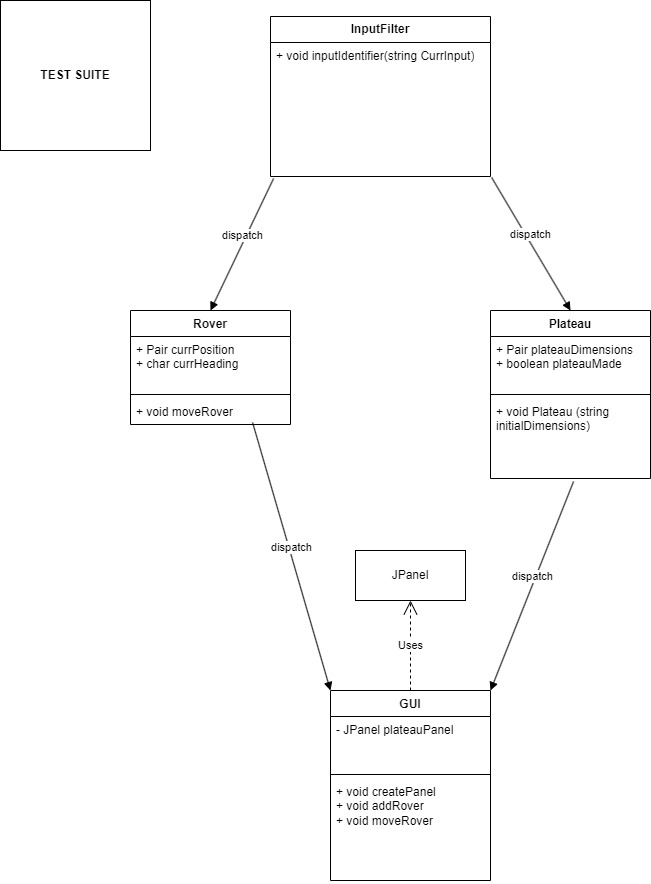
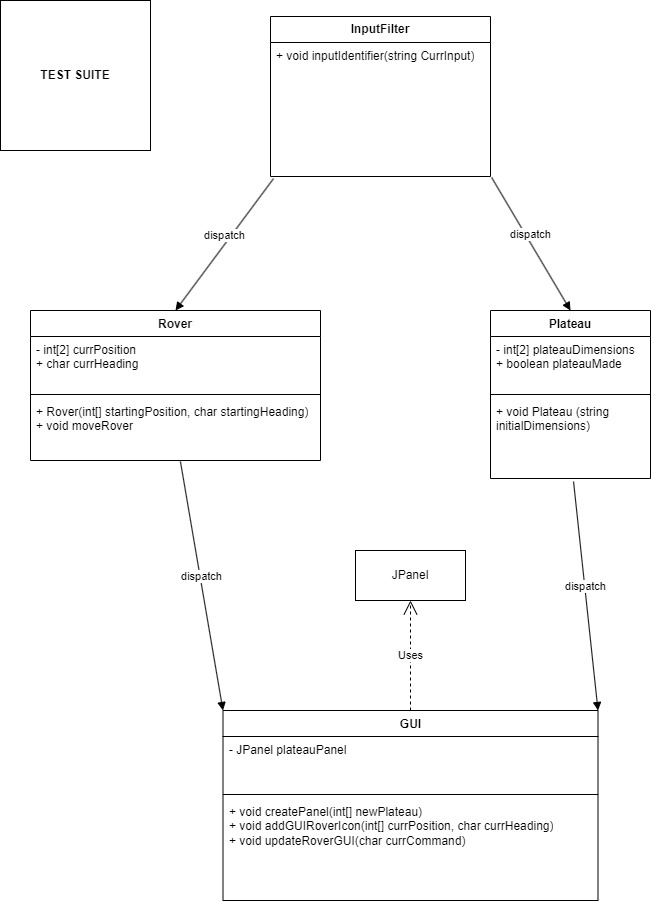
Refactored UML diagram to include new methods and method parameters. Began to flesh out classes with variables and methods including comments

diff --git a/logic/src/Plateau.java b/logic/src/Plateau.java
@@ -1,2 +1,18 @@
 public class Plateau {
+    private int[] plateauDimensions = new int[2];
+
+    public boolean plateauMade = false;
+
+    private Plateau(String initialDimensions) {
+        //Logic to populate plateauDimensions array from input string here.
+        //if statement to check if a plateau has already been made.
+        this.plateauMade = true;
+
+    }
+
+    //Return the arraylist with the current dimensions of the plateau.
+    public int[] getPlateauDimensions() {
+        return plateauDimensions;
+    }
+
 }

diff --git a/logic/src/GUI.java b/logic/src/GUI.java
@@ -1,2 +1,20 @@
+import javax.swing.*;
+
 public class GUI {
+
+    private JPanel plateauPanel;
+
+    public void createPanel(int[] newPlateau) {
+        //Logic to create a Jpanel out of Plateau dimensions
+    }
+
+    public void addGUIRoverIcon(int[] currPosition, char currHeading) {
+        //Logic to add a rover icon to the current GUI
+    }
+
+    public void updateRoverGUI(char currCommand) {
+        //Logic to update the rovers position on the GUI
+
+    }
+
 }

diff --git a/logic/src/Rover.java b/logic/src/Rover.java
@@ -1,2 +1,14 @@
+
 public class Rover {
+    private int[] currPosition = new int[2];
+    char currHeading = 't';
+
+    public Rover(int[] startingPosition, char startingHeading) {
+        //Logic to copy startingPosition and startingHeading to currPosition and currHeading.
+    }
+
+    public void moveRover(String moveCommand) {
+        //Logic to move the rover by updating currPosition + currHeading AND send update the GUI.
+
+    }
 }

diff --git a/logic/src/InputFilter.java b/logic/src/InputFilter.java
@@ -1,2 +1,6 @@
 public class InputFilter {
+    public void inputIdentifier(String currInput) {
+        //Input detection type logic and forwarding of input to either rover or plateau
+
+    }
 }
